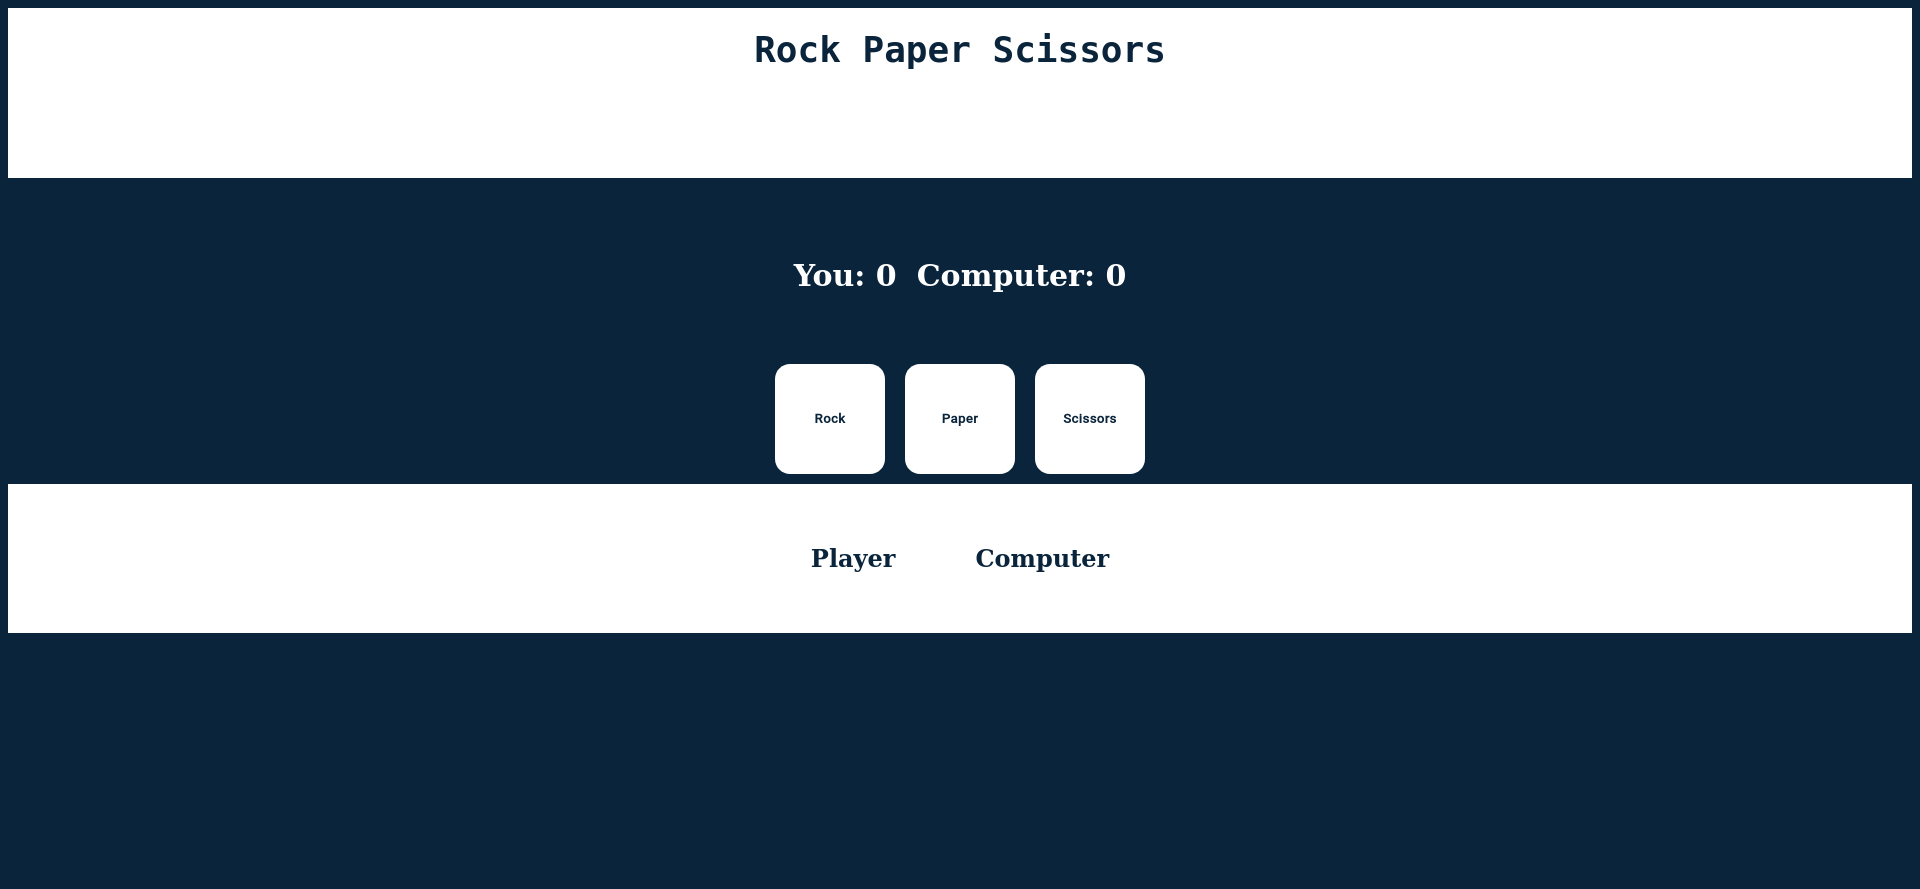
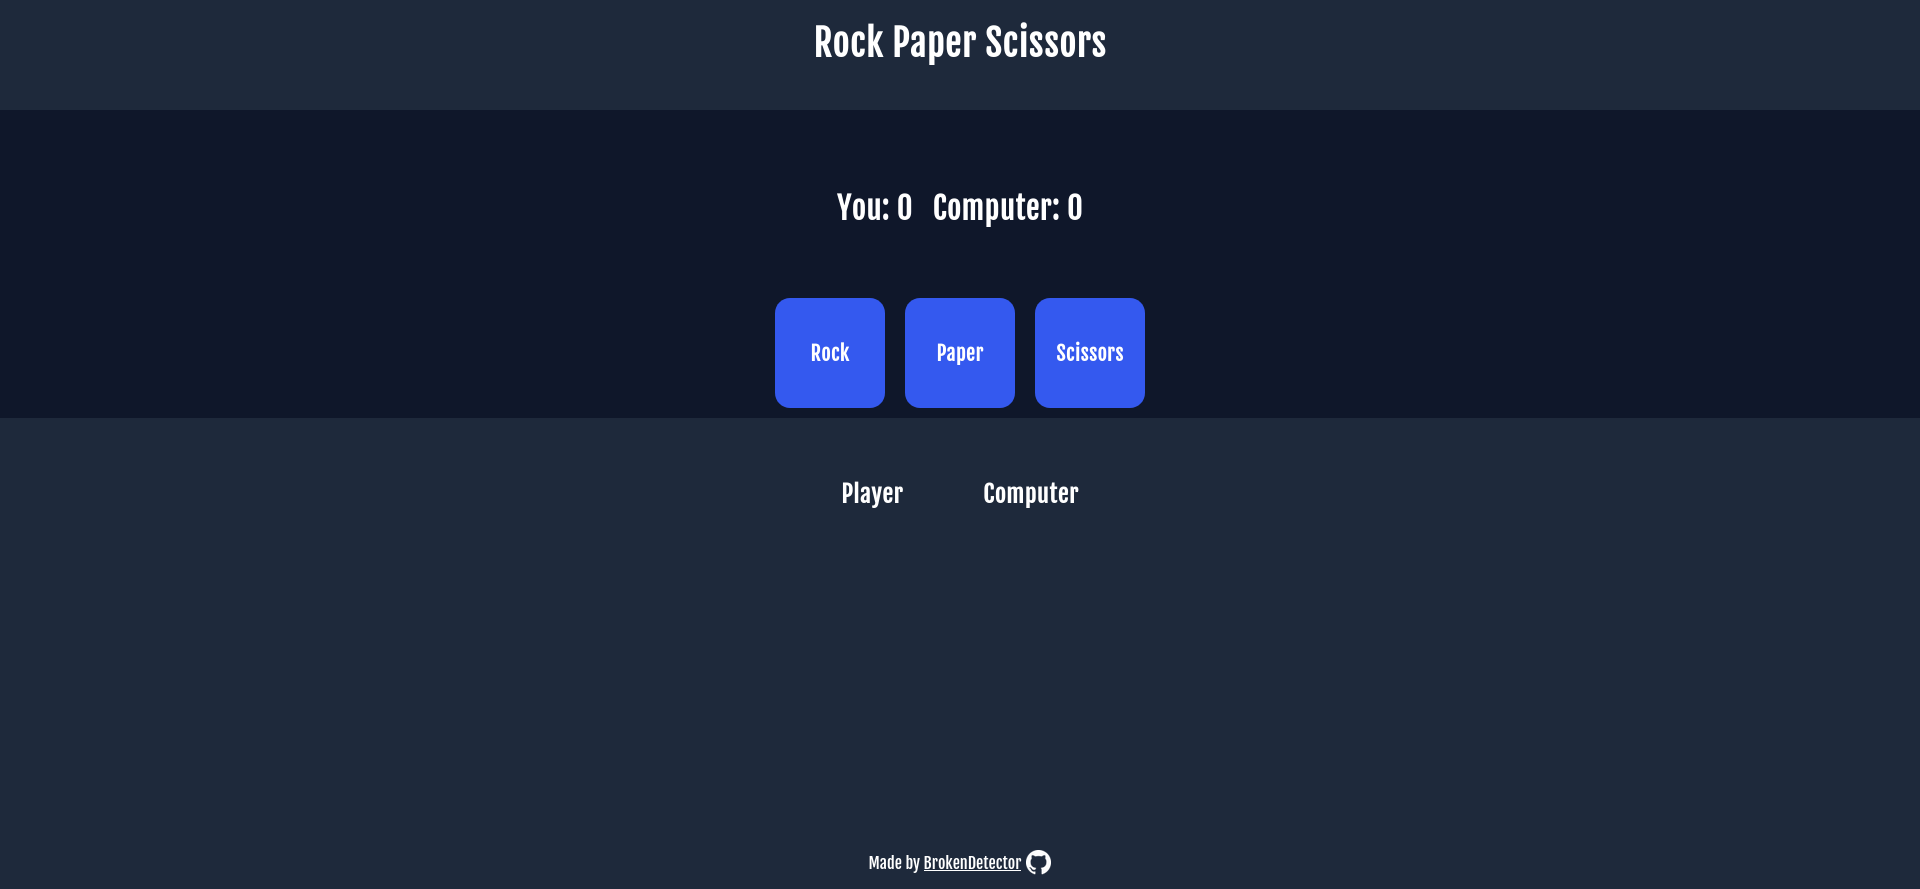
restyle & new content

diff --git a/index.html b/index.html
@@ -19,13 +19,13 @@
                 </div>
                 <div class="profile">
                     <img src="images/notifications.svg">
-                    <img src="images/profile-black.svg">
+                    <img src="images/profile_48dp.svg">
                     <p>Broken Detector</p>
                 </div>
             </div>
             <div class="row2">
                 <div class="welcome">
-                    <img src="images/profile-black.svg">
+                    <img src="images/profile_48dp.svg">
                     <div>
                         <p>Hi there,</p>
                         <h3>Broken Detector (@BrokenDetector)</h3>
@@ -59,12 +59,16 @@
                         <p>Messages</p>
                     </li>
                     <li>
+                        <img src="images/library.svg">
+                        <p>Library</p>
+                    </li>
+                    <li>
                         <img src="images/history.svg">
                         <p>History</p>
                     </li>
                     <li>
                         <img src="images/tasks.svg">
-                        <p>Tasks</p>
+                        <p>Todo</p>
                     </li>
                     <li>
                         <img src="images/communities.svg">
@@ -94,11 +98,35 @@
             <h3>Your Projects</h3>
             <div class="projects-list">
                 <div class="project">
+                    <h4>❌ Tic Tac Toe</h4>
+                    <a href="https://github.com/BrokenDetector/Tic-Tac-Toe">
+                        <img class="png" src="images/Tic Tac Toe.png">
+                    </a>
+                    <p> Tic Tac Toe game created with HTML, CSS and JS</p>
+                    <div>
+                        <img src="images/star.svg">
+                        <img src="images/like.svg">
+                        <img src="images/share.svg">
+                    </div>
+                </div>
+                <div class="project">
+                    <h4>🥞 Restaurant Page</h4>
+                    <a href="https://github.com/BrokenDetector/Restaurant-Page">
+                        <img class="png" src="images/Restaurant Page.png">
+                    </a>
+                    <p>Restaurant page created with JS, CSS and HTML</p>
+                    <div>
+                        <img src="images/star.svg">
+                        <img src="images/like.svg">
+                        <img src="images/share.svg">
+                    </div>
+                </div>
+                <div class="project">
                     <h4>🔢 Calculator</h4>
                     <a href="https://github.com/BrokenDetector/Calculator">
                         <img class="png" src="images/Calculator.png">
                     </a>
-                    <p>a Calculator written in JavaScript</p>
+                    <p>Calculator written in JavaScript</p>
                     <div>
                         <img src="images/star.svg">
                         <img src="images/like.svg">
@@ -110,7 +138,7 @@
                     <a href="https://github.com/BrokenDetector/Etch-a-Sketch">
                         <img class="png" src="images/Etch a Sketch.png">
                     </a>
-                    <p>a Etch a Sketch game written in JavaScript</p>
+                    <p>Etch a Sketch game written in JavaScript</p>
                     <div>
                         <img src="images/star.svg">
                         <img src="images/like.svg">
@@ -122,7 +150,7 @@
                     <a href="https://github.com/BrokenDetector/Rock-Paper-Scissors">
                         <img class="png" src="images/Rock Paper Scissors.png">
                     </a>
-                    <p>a Rock Paper Scissors game written in JavaScript</p>
+                    <p>Rock Paper Scissors game written in JavaScript</p>
                     <div>
                         <img src="images/star.svg">
                         <img src="images/like.svg">
@@ -134,7 +162,7 @@
                     <a href="https://github.com/BrokenDetector/Sign-up-form">
                         <img class="png" src="images/Sign-up form.png">
                     </a>
-                    <p>a Sign-up form with input validation</p>
+                    <p>Sign-up form with input validation</p>
                     <div>
                         <img src="images/star.svg">
                         <img src="images/like.svg">
@@ -142,17 +170,11 @@
                     </div>
                 </div>
                 <div class="project">
-                    <h4>Project Title</h4>
-                    <p>Lorem ipsum dolor, sit amet consectetur adipisicing elit.</p>
-                    <div>
-                        <img src="images/star.svg">
-                        <img src="images/like.svg">
-                        <img src="images/share.svg">
-                    </div>
-                </div>
-                <div class="project">
-                    <h4>Project Title</h4>
-                    <p>Lorem ipsum dolor, sit amet consectetur adipisicing elit.</p>
+                    <h4>📘 Library</h4>
+                    <a href="https://github.com/BrokenDetector/Library">
+                        <img class="png" src="images/Library.png">
+                    </a>
+                    <p>Library (JS)</p>
                     <div>
                         <img src="images/star.svg">
                         <img src="images/like.svg">
@@ -185,28 +207,28 @@
                 <h3>Trending</h3>
                 <div class="trending-list">
                     <div class="trend">
-                        <img src="images/profile-black.svg">
+                        <img src="images/profile_48dp.svg">
                         <div>
                             <h5>@tegan</h5>
                             <p>World Peace Builder</p>
                         </div>
                     </div>
                     <div class="trend">
-                        <img src="images/profile-black.svg">
+                        <img src="images/profile_48dp.svg">
                         <div>
                             <h5>@morgan</h5>
                             <p>Super Cool Project</p>
                         </div>
                     </div>
                     <div class="trend">
-                        <img src="images/profile-black.svg">
+                        <img src="images/profile_48dp.svg">
                         <div>
                             <h5>@kendall</h5>
                             <p>Life Changing App</p>
                         </div>
                     </div>
                     <div class="trend">
-                        <img src="images/profile-black.svg">
+                        <img src="images/profile_48dp.svg">
                         <div>
                             <h5>@alex</h5>
                             <p>No Traffic Maker</p>

diff --git a/css/style.css b/css/style.css
@@ -1,25 +1,24 @@
+@import url('https://fonts.googleapis.com/css2?family=Rubik&display=swap');
+
 html,
 body {
     margin: 0;
     padding: 0;
     height: 100%;
     width: 100%;
-}
-
-body {
-    background-color: #E2E8F0;
-
+    background-color: #0F172A;
 }
 
 .container {
     display: grid;
     grid-template-columns: auto 4fr 1fr;
     grid-template-rows: auto auto auto;
+    color: white;
+    font-family: 'Rubik', sans-serif;
 }
 
 .container div:not(.header) {
     padding: 10px;
-    font-family: Helvetica;
 }
 
 h3 {
@@ -36,14 +35,15 @@ hr {
 .header {
     margin: 0;
     padding: 0;
-    background-color: #FFFFFF;
+    background-color: #1E293B;
+    color: white;
     display: grid;
     grid-template-rows: 0.5fr 1fr;
     grid-column: 2 / 4;
     grid-row: 1 / 1;
     align-items: center;
     text-align: center;
-    box-shadow: 0px 0px 15px 1px gray;
+    box-shadow: 0px 0px 15px 1px black;
     font-weight: bold;
     font-size: 18px;
 }
@@ -109,8 +109,8 @@ hr {
 }
 
 .btn button {
-    background-color: #1992D4;
-    color: #FFFFFF;
+    background-color: #3459EF;
+    color: white;
     border: none;
     border-radius: 30px;
     padding: 15px 30px 15px;
@@ -132,8 +132,7 @@ button:hover {
     flex-direction: column;
     grid-column: 1 / 2;
     grid-row: 1 / 3;
-    background-color: #1992D4;
-    color: #FFFFFF;
+    background-color: #1E293B;
     font-weight: bold;
     height: 100%;
     text-align: center;
@@ -176,11 +175,12 @@ button:hover {
 .projects {
     grid-column: 2 / 3;
     grid-row: 2/ 3;
+    color: white;
 }
 
 .projects-list {
     display: grid;
-    gap: 1rem;
+    gap: 2rem;
     grid-template-columns: repeat(2, 1fr);
     grid-template-rows: repeat(3, 1fr);
 }
@@ -190,9 +190,9 @@ button:hover {
     flex-direction: column;
     justify-content: stretch;
     align-items: stretch;
-    background-color: #FFFFFF;
+    background-color: #1E293B;
     border-radius: 5px;
-    box-shadow: -9px 0px 1px 0px #EFAF1A;
+    box-shadow: -9px 0px 0px 0px #3459EF;
 }
 
 .project p {
@@ -209,7 +209,7 @@ button:hover {
 }
 
 .png:hover {
-    box-shadow: 0px 0px 15px 1px gray;
+    box-shadow: 0px 0px 15px 1px black;
 }
 
 .project div {
@@ -224,9 +224,9 @@ button:hover {
 /* ANNOUNCEMENTS */
 
 .announcements-list {
-    background-color: #FFFFFF;
+    background-color: #1E293B;
     border-radius: 5px;
-    box-shadow: 0px 0px 15px 1px gray;
+    box-shadow: 0px 0px 15px 1px black;
 }
 
 .announcement p,
@@ -242,9 +242,9 @@ button:hover {
 /* TRENDING */
 
 .trending-list {
-    background-color: #FFFFFF;
+    background-color: #1E293B;
     border-radius: 5px;
-    box-shadow: 0px 0px 15px 1px gray;
+    box-shadow: 0px 0px 15px 1px black;
 }
 
 .trend {
